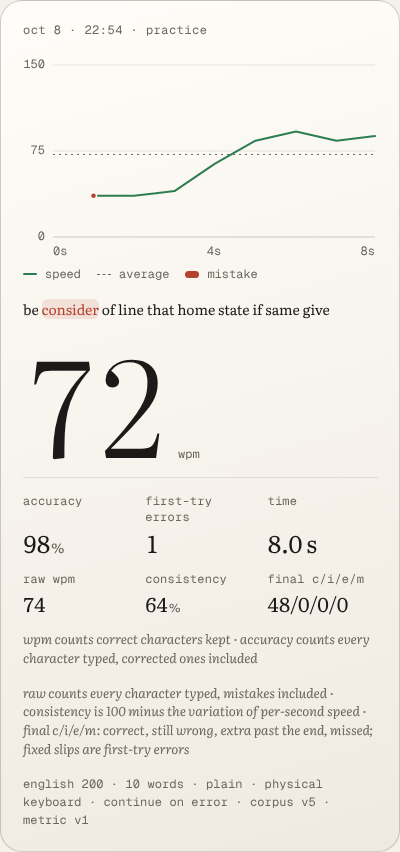
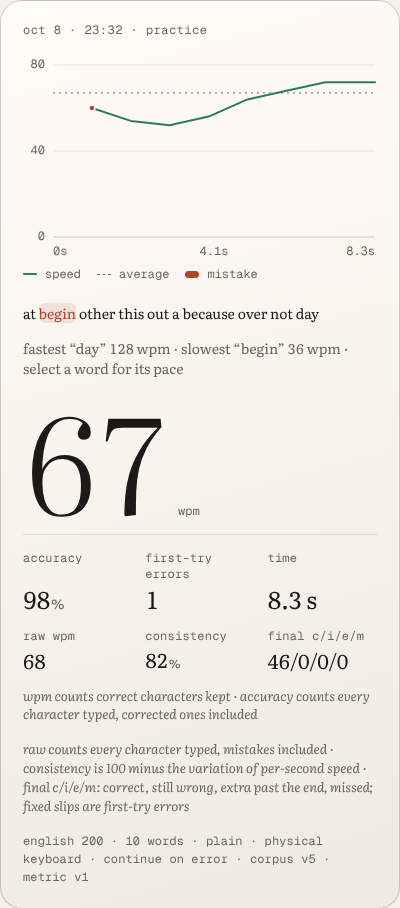
Show typed words, word pace without hover, and fit stats at 320px
The words list now shows the letters kept at each word (a slip left
in reads "cxt", not "cat"), still bounded by the passage words.

Each word's pace is reachable without a tooltip: the list is one tab
stop where arrow keys, Home and End move between words, and focus or
a tap shows the word's pace in a visible line below. Before a choice
the line names the fastest and slowest words.

Below 360px the stat values step down to the lead size and the
character breakdown takes its own row; it can also break after each
slash, so a long, error-heavy breakdown never widens the card. The
run card un-sticks at 1120px tall to fit the extra line.

Claude-Session: https://claude.ai/code/session_01SaBNo9RHRaTR8cCUjK1iLD

diff --git a/e2e/run-card-stats.spec.js b/e2e/run-card-stats.spec.js
@@ -65,31 +65,44 @@ test('the run card shows raw wpm, consistency, c/i/e/m and the words typed', asy
   expect(await page.locator('#run-card').evaluate((node) => getComputedStyle(node).position)).toBe('sticky');
 });
 
-test('a words list past four lines is reached and scrolled from the keyboard', async ({ page }) => {
+test('the words list is one tab stop whose words show their pace by keyboard', async ({ page }) => {
   await page.setViewportSize({ width: 1280, height: 800 });
   await openApp(page);
   await chooseWords(page, 50);
   await typeInto(page, await passageText(page));
   await expect(page.locator('body')).toHaveAttribute('data-view', 'results');
   const list = page.locator('#result-words');
-  // Chromium and Firefox focus a scroller on their own; Safari needs the tabindex.
-  await expect(list).toHaveAttribute('tabindex', '0');
-  await expect(list).toHaveAttribute('role', 'region');
+  const words = list.locator('[role="option"]');
+  const detail = page.locator('#result-word-detail');
+  await expect(list).toHaveAttribute('role', 'listbox');
   await expect(list).toHaveAttribute('aria-label', /words typed/i);
   expect(await list.evaluate((node) => node.scrollHeight > node.clientHeight)).toBe(true);
-  // Finish focuses "run again", after the card; Shift+Tab walks back into the list.
-  for (let i = 0; i < 12 && !(await list.evaluate((node) => node === document.activeElement)); i += 1) {
+  // Before a choice the line names the fastest and slowest words; only one word is a tab stop.
+  await expect(detail).toHaveText(/^fastest “\S+” \d+ wpm · slowest “\S+” \d+ wpm · select a word for its pace$/);
+  await expect(list.locator('[tabindex="0"]')).toHaveCount(1);
+  // Finish focuses "run again", after the card; Shift+Tab walks back to the list's one stop.
+  for (let i = 0; i < 12 && !(await words.first().evaluate((node) => node === document.activeElement)); i += 1) {
     await page.keyboard.press('Shift+Tab');
   }
-  await expect(list).toBeFocused();
-  const ring = await list.evaluate((node) => ({
+  await expect(words.first()).toBeFocused();
+  const firstWord = await words.first().textContent();
+  await expect(detail).toHaveText(new RegExp(`^“${firstWord}” · (\\d+ wpm|no pace)$`));
+  await expect(words.first()).toHaveAttribute('aria-label', new RegExp(`^${firstWord}, (\\d+ wpm|no pace)$`));
+  const ring = await words.first().evaluate((node) => ({
     visible: node.matches(':focus-visible'),
     style: getComputedStyle(node).outlineStyle,
     width: getComputedStyle(node).outlineWidth,
   }));
   expect(ring).toEqual({ visible: true, style: 'solid', width: '2px' });
+  await page.keyboard.press('ArrowRight');
+  await expect(words.nth(1)).toBeFocused();
+  await expect(words.nth(1)).toHaveAttribute('aria-selected', 'true');
+  await expect(detail).toHaveText(new RegExp(`^“${await words.nth(1).textContent()}” · (\\d+ wpm|no pace)$`));
+  // End moves to the last word, and the list scrolls to keep it in view.
   await page.keyboard.press('End');
+  await expect(words.last()).toBeFocused();
   await expect.poll(() => list.evaluate((node) => node.scrollTop)).toBeGreaterThan(0);
+  await expect(list.locator('[tabindex="0"]')).toHaveCount(1);
 });
 
 test.describe('phone', () => {
@@ -104,5 +117,55 @@ test.describe('phone', () => {
     // The fixed bottom dock is hidden for the capture only, so it never covers the card's foot.
     await page.waitForTimeout(600);
     await page.locator('#run-card').screenshot({ path: shot(testInfo, 'run-card-mobile.png'), style: '.dock-zone { visibility: hidden; }' });
+    // A tap shows a word's pace in the line below, as focus does for the keyboard.
+    const second = page.locator('#result-words [role="option"]').nth(1);
+    await second.tap();
+    await expect(second).toHaveAttribute('aria-selected', 'true');
+    await expect(page.locator('#result-word-detail')).toHaveText(new RegExp(`^“${await second.textContent()}” · \\d+ wpm( · mistyped)?$`));
+  });
+});
+
+// Stat values whose text runs past their cell or the card's padding, at the current width.
+function statSpill(page) {
+  return page.evaluate(() => {
+    const card = document.getElementById('run-card');
+    const box = card.getBoundingClientRect();
+    const pad = parseFloat(getComputedStyle(card).paddingLeft);
+    return [...card.querySelectorAll('.run-card-facts dd')].flatMap((node) => {
+      const range = document.createRange();
+      range.selectNodeContents(node);
+      const cell = node.getBoundingClientRect();
+      const text = range.getBoundingClientRect();
+      const out = text.right > cell.right + 0.5 || text.left < box.left + pad - 0.5 || text.right > box.right - pad + 0.5;
+      return out ? [`${node.parentElement.querySelector('dt').textContent}: ${node.textContent}`] : [];
+    });
+  });
+}
+
+test.describe('narrow phone', () => {
+  test.use({ viewport: { width: 320, height: 700 }, hasTouch: true, isMobile: true });
+
+  test('long, error-heavy stats stay inside the card at 320 px', async ({ page }) => {
+    await openApp(page);
+    await chooseWords(page, 100);
+    // Every letter wrong under continue on error: the breakdown reads 0/<all>/0/0.
+    const text = await passageText(page);
+    await typeInto(page, [...text].map((char) => (char === 'x' ? 'z' : 'x')).join(''));
+    await expect(page.locator('body')).toHaveAttribute('data-view', 'results');
+    await expect(page.locator('#result-chars')).toHaveText(`0/${text.length}/0/0`);
+    await expect(page.locator('#result-errors')).toHaveText(String(text.length));
+    // Below 360 px the breakdown has its own row, and it can still break after a slash.
+    await expect(page.locator('#result-chars wbr')).toHaveCount(3);
+    expect(await statSpill(page)).toEqual([]);
+    // Larger than any run here reaches: a 120 s timed run, typed fast with many slips.
+    await page.evaluate(() => {
+      const set = (id, html) => { document.getElementById(id).innerHTML = html; };
+      set('result-time', '120.0 s');
+      set('result-errors', '1250');
+      set('result-raw', '1480');
+      set('result-chars', '1400/<wbr>1250/<wbr>120/<wbr>12');
+    });
+    expect(await statSpill(page)).toEqual([]);
+    expect(await page.evaluate(() => document.documentElement.scrollWidth - document.documentElement.clientWidth)).toBeLessThanOrEqual(0);
   });
 });

diff --git a/src/app.js b/src/app.js
@@ -1058,12 +1058,60 @@ function renderSecondaryStats(completed) {
   const chars = characterBreakdown(completed, replay);
   $('result-raw').textContent = rawWpm(completed, replay);
   $('result-consistency').textContent = steady ?? '—';
-  $('result-chars').textContent = `${chars.correct}/${chars.incorrect}/${chars.extra}/${chars.missed}`;
-  $('result-words').replaceChildren(...wordHistory(completed, replay).flatMap((item, i) => {
+  // A break opportunity after each slash, so a long breakdown wraps instead of widening the card.
+  $('result-chars').replaceChildren(...[chars.correct, chars.incorrect, chars.extra, chars.missed]
+    .flatMap((value, i) => (i ? ['/', document.createElement('wbr'), String(value)] : [String(value)])));
+  renderWords(completed, replay);
+}
+
+// Words reached: one tab stop. Arrow keys, Home and End move between words, and focus or a tap
+// shows that word's pace in the line below, so the numbers never depend on a hover tooltip.
+let wordItems = [];
+let wordIndex = null;
+const wordPace = (item) => (item.wpm === null ? 'no pace' : `${item.wpm} wpm`);
+
+function renderWords(completed, replay) {
+  wordItems = wordHistory(completed, replay);
+  $('result-words').replaceChildren(...wordItems.flatMap((item, i) => {
     const word = element('span', item.word, item.wrong ? 'word-miss' : '');
-    word.title = item.wpm === null ? 'no pace' : `${item.wpm} wpm`;
+    word.setAttribute('role', 'option');
+    word.setAttribute('aria-label', `${item.word}, ${wordPace(item)}${item.wrong ? ', mistyped' : ''}`);
+    word.dataset.index = String(i);
+    word.title = wordPace(item);
     return i ? [' ', word] : [word];
   }));
+  selectWord(null);
+}
+
+// Before any choice the first word is the tab stop and the line names the fastest and slowest words.
+function wordSummary() {
+  const paced = wordItems.filter((item) => item.wpm !== null);
+  if (paced.length < 2) return wordItems.length ? 'select a word for its pace' : '';
+  const fastest = paced.reduce((best, item) => (item.wpm > best.wpm ? item : best));
+  const slowest = paced.reduce((low, item) => (item.wpm < low.wpm ? item : low));
+  return `fastest “${fastest.word}” ${fastest.wpm} wpm · slowest “${slowest.word}” ${slowest.wpm} wpm · select a word for its pace`;
+}
+
+function selectWord(index, { focus = false } = {}) {
+  const words = [...$('result-words').querySelectorAll('[role="option"]')];
+  wordIndex = index === null || !words.length ? null : Math.max(0, Math.min(index, words.length - 1));
+  words.forEach((word, i) => {
+    word.tabIndex = i === (wordIndex ?? 0) ? 0 : -1;
+    word.setAttribute('aria-selected', String(i === wordIndex));
+  });
+  const item = wordItems[wordIndex];
+  $('result-word-detail').textContent = item ? `“${item.word}” · ${wordPace(item)}${item.wrong ? ' · mistyped' : ''}` : wordSummary();
+  if (focus && item) words[wordIndex].focus();
+}
+
+function moveWordFocus(event) {
+  const word = event.target.closest?.('[role="option"]');
+  if (!word) return;
+  const at = Number(word.dataset.index);
+  const next = { ArrowLeft: at - 1, ArrowUp: at - 1, ArrowRight: at + 1, ArrowDown: at + 1, Home: 0, End: wordItems.length - 1 }[event.key];
+  if (next === undefined) return;
+  event.preventDefault();
+  selectWord(next, { focus: true });
 }
 
 function element(tag, text, className = '') {
@@ -1388,6 +1436,8 @@ function clearHistory() {
   activeRecommendation = null;
   for (const id of ['result-wpm', 'result-accuracy', 'result-errors', 'result-time', 'result-raw', 'result-consistency', 'result-chars']) $(id).textContent = '—';
   $('result-words').replaceChildren();
+  wordItems = [];
+  selectWord(null);
   $('result-delta').textContent = 'No run yet.';
   $('result-comparison-note').textContent = '';
   $('run-card-stamp').textContent = 'no run yet';
@@ -1797,6 +1847,16 @@ function bindEvents() {
   });
   $('restart-button').addEventListener('click', () => resetSession(sessionKind, { focus: true }));
   $('run-again').addEventListener('click', () => sessionKind === 'daily' ? startDaily() : resetSession('practice', { focus: true }));
+  $('result-words').addEventListener('keydown', moveWordFocus);
+  $('result-words').addEventListener('focusin', (event) => {
+    const word = event.target.closest('[role="option"]');
+    if (word && Number(word.dataset.index) !== wordIndex) selectWord(Number(word.dataset.index));
+  });
+  // A tap selects the word too, so touch shows the same line as the keyboard.
+  $('result-words').addEventListener('click', (event) => {
+    const word = event.target.closest('[role="option"]');
+    if (word) selectWord(Number(word.dataset.index), { focus: true });
+  });
   $('progress-conditions').addEventListener('change', renderHistory);
   $('progress-period').addEventListener('change', renderHistory);
   $('training-conditions').addEventListener('change', renderTraining);

diff --git a/src/styles.css b/src/styles.css
@@ -1229,8 +1229,8 @@ body[data-focus-mode="true"][data-view="practice"] .exit-focus { display: inline
   gap: var(--space-3);
 }
 
-/* Values sit on one line even when a label wraps. */
-.run-card-facts div { display: flex; flex-direction: column; justify-content: space-between; gap: 4px; }
+/* Values sit on one line even when a label wraps; a cell never widens its track. */
+.run-card-facts div { display: flex; flex-direction: column; justify-content: space-between; gap: 4px; min-width: 0; }
 .run-card-facts dt { color: var(--muted); font: var(--text-fine)/1.3 var(--font-mono); letter-spacing: 0.02em; }
 .run-card-facts dd { margin: 0; font-size: 24px; font-weight: 400; line-height: 1.1; letter-spacing: -0.02em; }
 .run-card-facts strong { font-weight: inherit; }
@@ -1241,18 +1241,22 @@ body[data-focus-mode="true"][data-view="practice"] .exit-focus { display: inline
 .run-card-more dd { font-size: var(--text-lead); }
 .run-card-more b { font-size: var(--text-label); }
 
-/* Words reached, static: plain ink, mistyped words in coral on the error tint; title gives pace.
-   Past four lines it scrolls, so it takes focus (tabindex) and the shared focus ring. */
+/* Words reached, static: plain ink, mistyped words in coral on the error tint. Past four lines it
+   scrolls. One word at a time is the tab stop; the chosen word is underlined and its pace shows in
+   the line below. The padding (offset by the margin) keeps a focused word's ring inside the scroller. */
+.run-card-wordlist { display: grid; gap: var(--space-2); }
 .run-card-words {
-  margin: 0;
-  max-height: calc(var(--text-label) * 1.7 * 4);
+  margin: 0 calc(var(--space-2) * -1);
+  padding: var(--space-1) var(--space-2);
+  max-height: calc(var(--text-label) * 1.7 * 4 + var(--space-1) * 2);
   overflow-y: auto;
-  border-radius: var(--radius-sm);
   color: var(--muted);
   font: var(--text-label)/1.7 var(--font-serif);
 }
-.run-card-words span { color: var(--text); border-radius: var(--radius-sm); }
+.run-card-words span { color: var(--text); border-radius: var(--radius-sm); cursor: pointer; }
 .run-card-words .word-miss { color: var(--danger); background: var(--danger-soft); }
+.run-card-words [aria-selected="true"] { text-decoration: underline; text-underline-offset: 3px; }
+.word-detail { margin: 0; color: var(--muted); font: var(--text-label)/1.45 var(--font-serif); font-variant-numeric: tabular-nums lining-nums; }
 
 .metric-note {
   margin: 0;
@@ -1894,9 +1898,10 @@ body[data-focus-mode="true"][data-view="practice"] .exit-focus { display: inline
   .challenge-toast { top: calc(var(--space-4) + 2 * (58px + var(--space-2))); }
 }
 
-/* A card taller than the viewport cannot stick without hiding its foot. With the secondary facts
-   and a full words list the card runs to about 925px, so it sticks (104px down) only on tall screens. */
-@media (max-height: 1080px) {
+/* A card taller than the viewport cannot stick without hiding its foot. With the secondary facts,
+   a full words list and its pace line the card runs to about 980px, so it sticks (104px down) only
+   on tall screens. */
+@media (max-height: 1120px) {
   .run-card { position: static; }
 }
 
@@ -1987,4 +1992,9 @@ body[data-focus-mode="true"][data-view="practice"] .exit-focus { display: inline
 
 @media (max-width: 360px) {
   #result-wpm { font-size: var(--text-numeral-narrow); }
+  /* Three tracks are about 73px here: values step down a size so "120.0 s" fits, and the
+     character breakdown takes its own row under raw wpm and consistency. */
+  .run-card-facts dd { font-size: var(--text-lead); }
+  .run-card-more { grid-template-columns: repeat(2, 1fr); }
+  .run-card-more div:last-child { grid-column: 1 / -1; }
 }

diff --git a/src/typing.js b/src/typing.js
@@ -445,8 +445,9 @@ function keptTimes(attempt) {
 
 // The passage words the run reached, flagged if any first try or kept letter in them missed, with
 // the pace from the previous word's space (or the run's first keystroke) to the word's last letter,
-// timed by the keystrokes kept at the finish so corrections count against the pace. A word the run
-// stopped inside shows only the letters typed; the rest are counted as missed, not shown as typed.
+// timed by the keystrokes kept at the finish so corrections count against the pace. The passage sets
+// each word's bounds; the word shown is the letters kept there, slips left in included. A word the
+// run stopped inside shows only the letters typed; the rest are counted as missed, not shown.
 export function wordHistory(attempt, replay = replayAttempt(attempt)) {
   const target = attempt.text;
   const firsts = new Map(replay.firstAttempts.map((item) => [item.position, item]));
@@ -468,7 +469,7 @@ export function wordHistory(attempt, replay = replayAttempt(attempt)) {
     const letters = start > 0 || times[start] > from ? end - start + 1 : end - start;
     const durationMs = from !== undefined && times[end] !== undefined ? times[end] - from : 0;
     words.push({
-      word: target.slice(start, end + 1),
+      word: replay.typed.slice(start, end + 1),
       wrong,
       wpm: durationMs > 0 ? Math.round(letters / 5 / (durationMs / 60000)) : null,
     });

diff --git a/tests/typing.test.js b/tests/typing.test.js
@@ -73,7 +73,8 @@ test('character breakdown separates correct, incorrect, extra and missed', () =>
 
 test('word history flags mistyped words and paces each word', () => {
   const words = wordHistory(evenRun('the cat sat', 200, { 5: 'x' }));
-  assert.deepEqual(words.map((item) => item.word), ['the', 'cat', 'sat']);
+  // A slip left in (continue on error) shows as typed: "cxt", marked, never the target's "cat".
+  assert.deepEqual(words.map((item) => item.word), ['the', 'cxt', 'sat']);
   assert.deepEqual(words.map((item) => item.wrong), [false, true, false]);
   // 4 characters (space + word) in 800 ms = 60 wpm.
   assert.equal(words[2].wpm, 60);
@@ -91,6 +92,8 @@ test('word pace runs to the kept last letter, so a fixed final slip slows the wo
     { type: 'insert', text: 't', offsetMs: 1600 },
   );
   const [, cat] = wordHistory(attempt);
+  // Fixed, so the kept letters read "cat"; the first-try miss still marks it.
+  assert.equal(cat.word, 'cat');
   assert.equal(cat.wrong, true);
   // Space at 300 ms to the kept "t" at 1600 ms: 3 characters in 1.3 s ≈ 28 wpm, not 120 from the slip.
   assert.equal(cat.wpm, 28);

diff --git a/index.html b/index.html
@@ -236,7 +236,10 @@
                 <span class="legend-miss">mistake</span>
               </figcaption>
             </figure>
-            <p id="result-words" class="run-card-words" role="region" tabindex="0" aria-label="Words typed; mistyped words are marked"></p>
+            <div class="run-card-wordlist">
+              <div id="result-words" class="run-card-words" role="listbox" aria-label="Words typed; mistyped words are marked. Arrow keys move between words."></div>
+              <p id="result-word-detail" class="word-detail"></p>
+            </div>
             <div class="run-card-score">
               <strong id="result-wpm" class="num">—</strong>
               <span class="run-card-unit">wpm</span>

diff --git a/DESIGN.md b/DESIGN.md
@@ -264,10 +264,10 @@ Weights in use are 300 (large numerals), 400 (headings and text), 500 (buttons, 
 A single centred column, `min(1080px, 100% - 48px)` wide (100% - 32px under 760px), in a three-row grid of dock, screen and footer. Screens open with 56px top padding (32px on mobile).
 
 - **Practice:** the passage block is vertically centred in the viewport. Above it, a centred row of segmented controls; then a measure row of numbers (and, for drills and retests, the heading block) closed by a hairline rule; then the three-line passage, a 2px progress line, and a footer of help text and actions. A mono shortcut row and an optional on-screen keyboard sit below.
-- **Results:** a two-column grid (run card 320–400px, copy fluid, 64px gap). The run card is sticky at 104px from the top. Under 900px it stacks, with the card centred at up to 420px, and it stops sticking when the viewport is shorter than 720px.
+- **Results:** a two-column grid (run card 320–400px, copy fluid, 64px gap). The run card is sticky at 104px from the top. Under 900px it stacks, with the card centred at up to 420px, and it stops sticking when the viewport is 1120px tall or less, since the full card runs to about 980px.
 - **Progress / Challenge:** heading row, then hairline-separated rows on fixed column grids that collapse to two columns under 900px and 760px.
 - **Spacing:** a 4px-based scale (4, 8, 12, 16, 24, 32, 40, 56, 64). Section breaks are 32px of padding above a hairline rule. Row padding is 12px (evidence) or 24px (history, race results).
-- **Breakpoints:** 900px (results and tables stack), 760px (dock moves to the bottom, keyboard and shortcuts hidden, type steps down), 360px (nav tightens), max-height 720px (run card un-sticks). Coarse pointers keep a 44px minimum target.
+- **Breakpoints:** 900px (results and tables stack), 760px (dock moves to the bottom, keyboard and shortcuts hidden, type steps down), 360px (nav tightens; run-card stat values step down to 20px and the character breakdown takes its own row), max-height 1120px (run card un-sticks). Coarse pointers keep a 44px minimum target.
 
 ### Named Rules
 **The Rules-Not-Boxes Rule.** Sections are separated by a 1px hairline and space, never by a card. If a region is not a floating object or the run card, it has no background and no border box.
